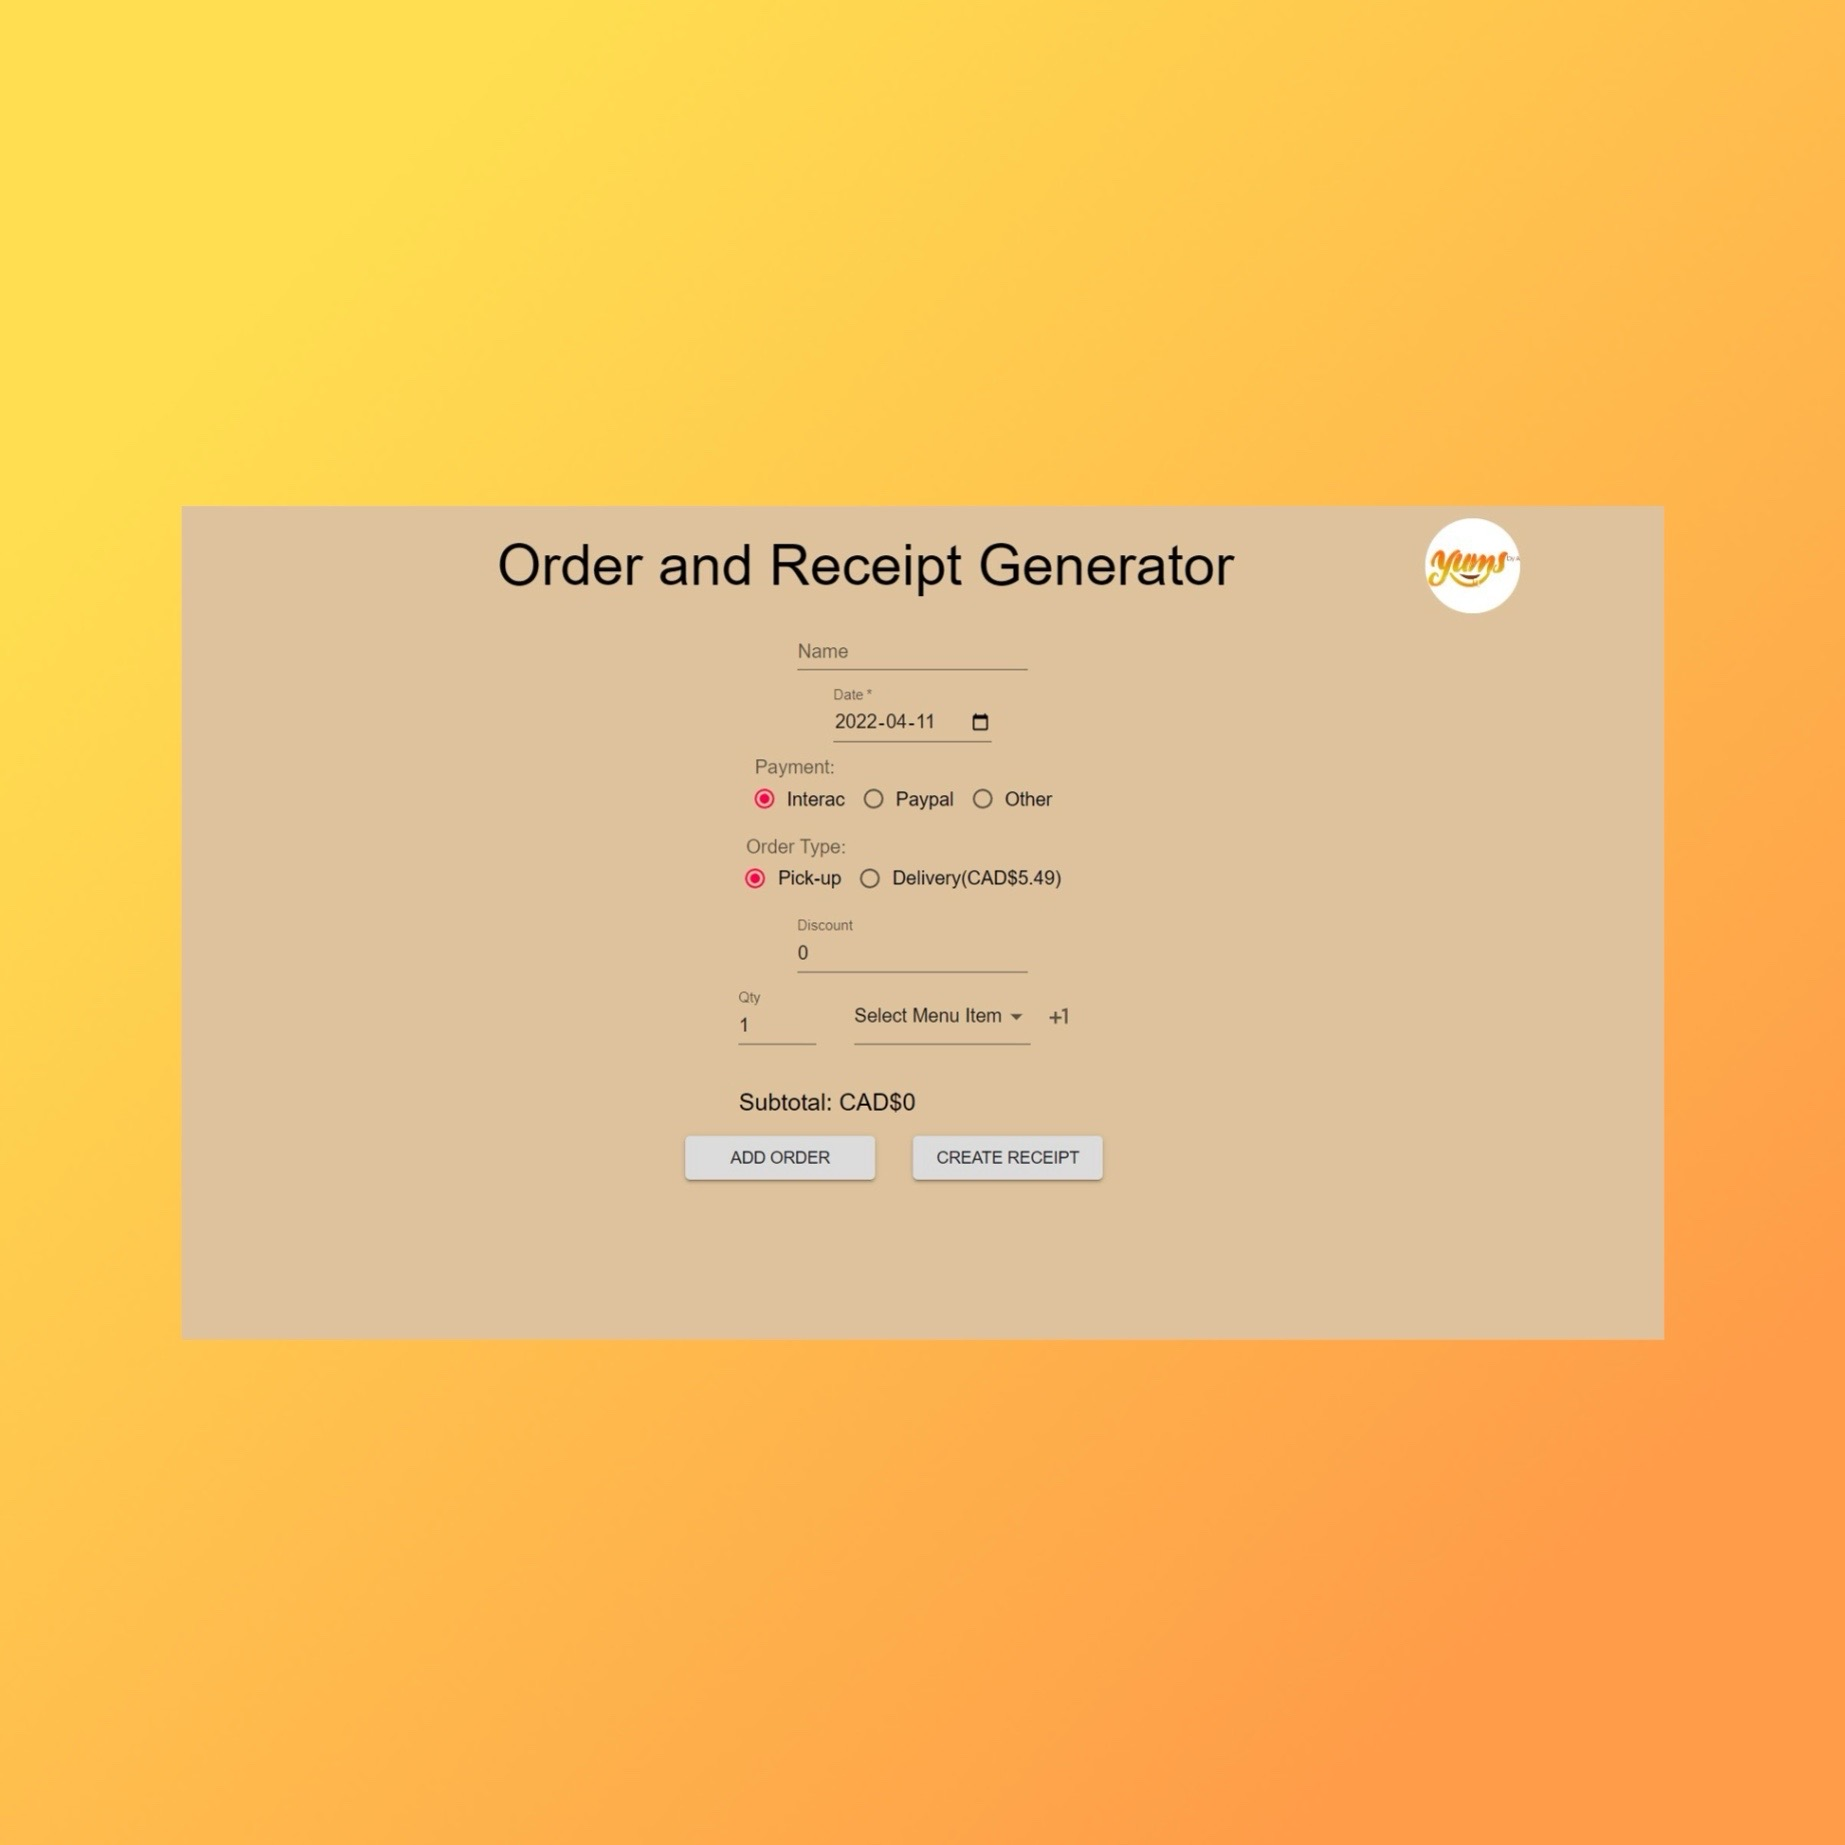
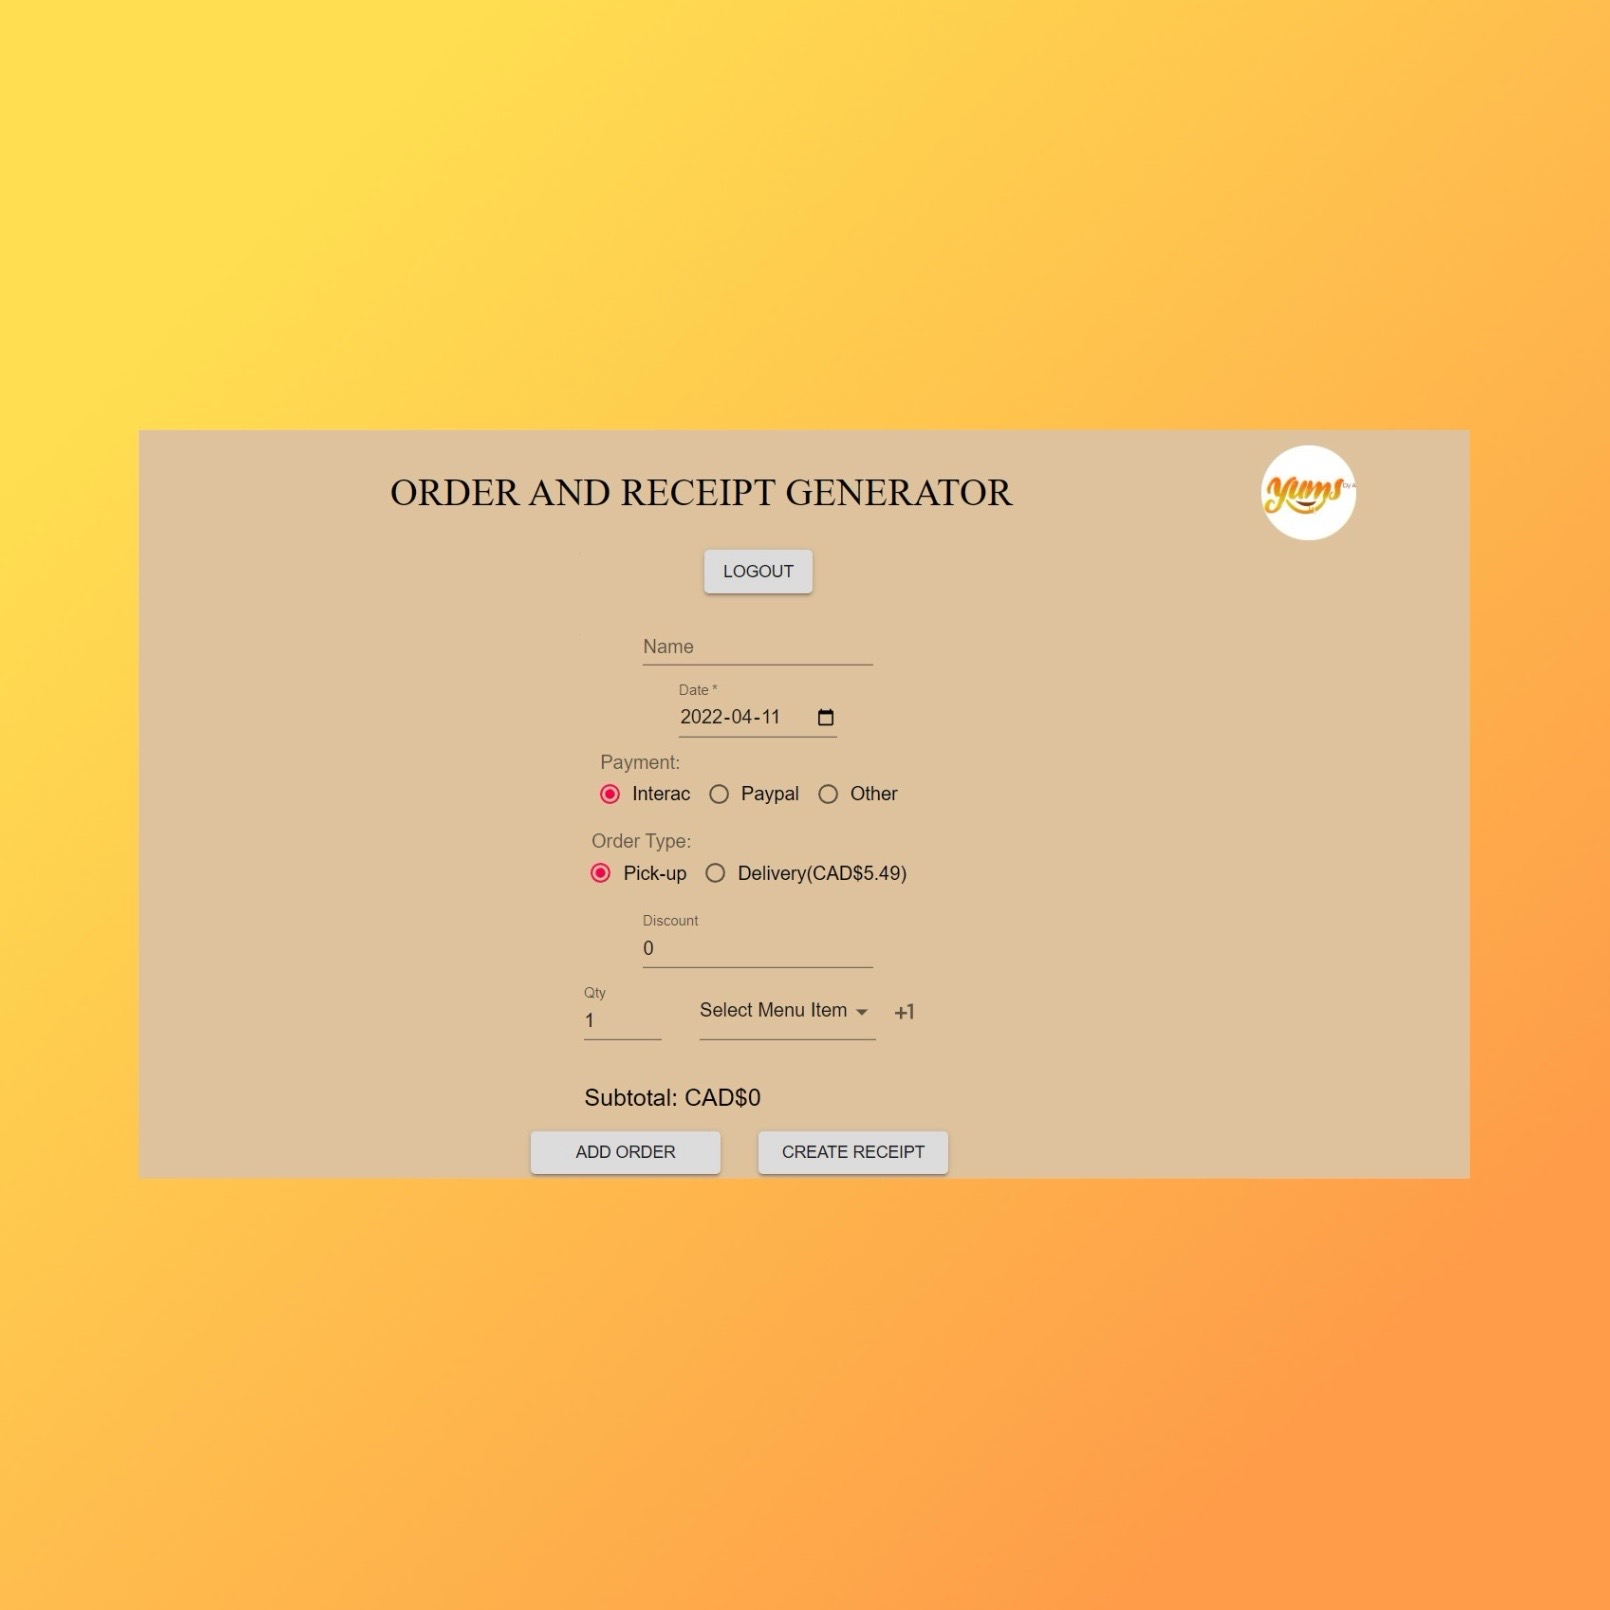
added image and changed description of project

Changed region(s): [[0.0621, 0.2484, 0.9317, 0.7453]]

diff --git a/src/components/Portfolio/Portfolio.jsx b/src/components/Portfolio/Portfolio.jsx
@@ -75,11 +75,11 @@ const Portfolio = () => {
 
   },
   {
-    "id": 4, "title": "YumsByA - Order and Receipt Generator",
-    "description": "A web tool created to assist with the creation of orders and receipts for, the food business,Yums by A. ",
+    "id": 4, "title": "Order and Receipt Generator",
+    "description": "A web tool implemented to assist with creating orders and receipts for, Ottawa-based Instagram food business, Yums By A.",
     "img": "/images/projects/yums.jpg",
     "github": "https://github.com/moiseamani1/yums_order_receipt_generator",
-    "stack": ["Sheets API", "Netlify", "ReactJs", "NodeJs",
+    "stack": ["Sheets API", "Netlify", "ReactJs", "NodeJs","Firebase",
       "Material UI","React-pdf"]
 
   }
